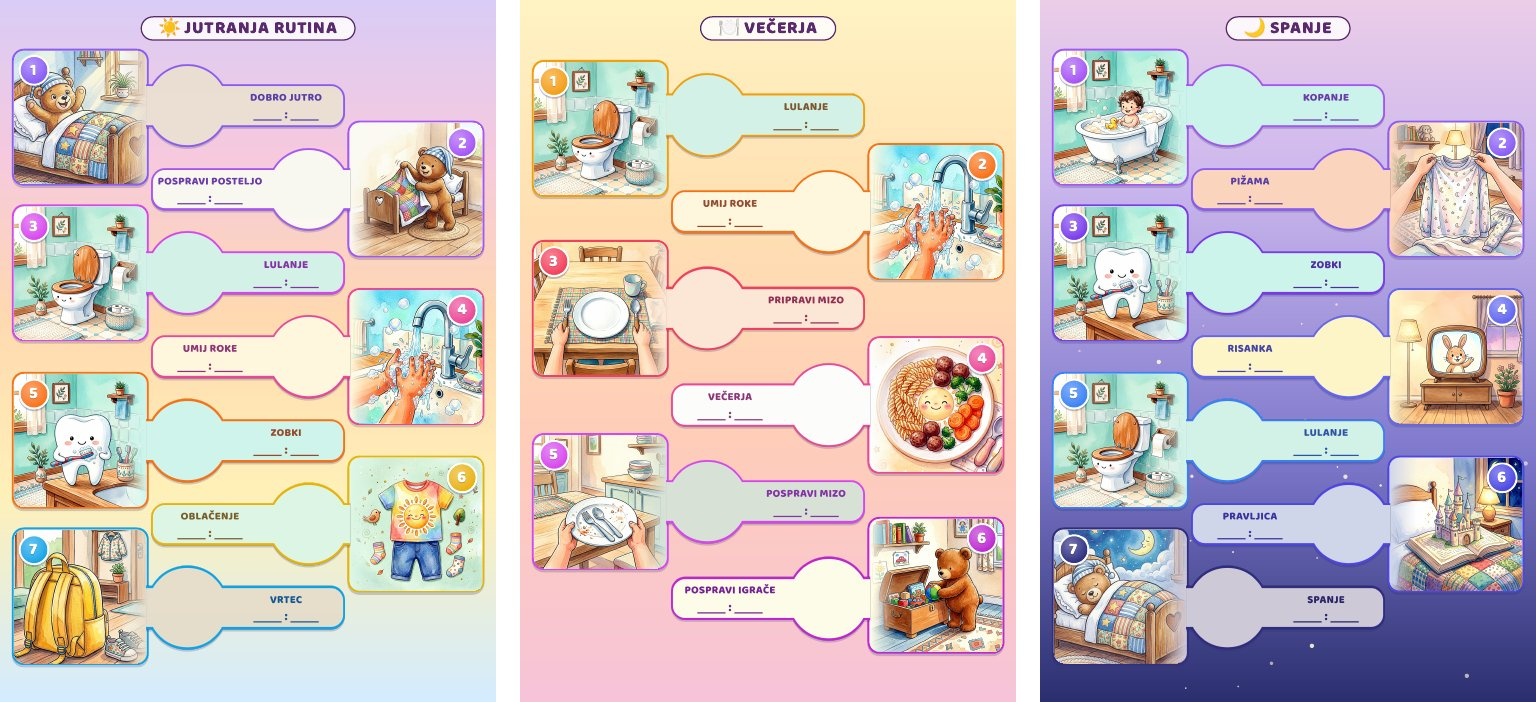
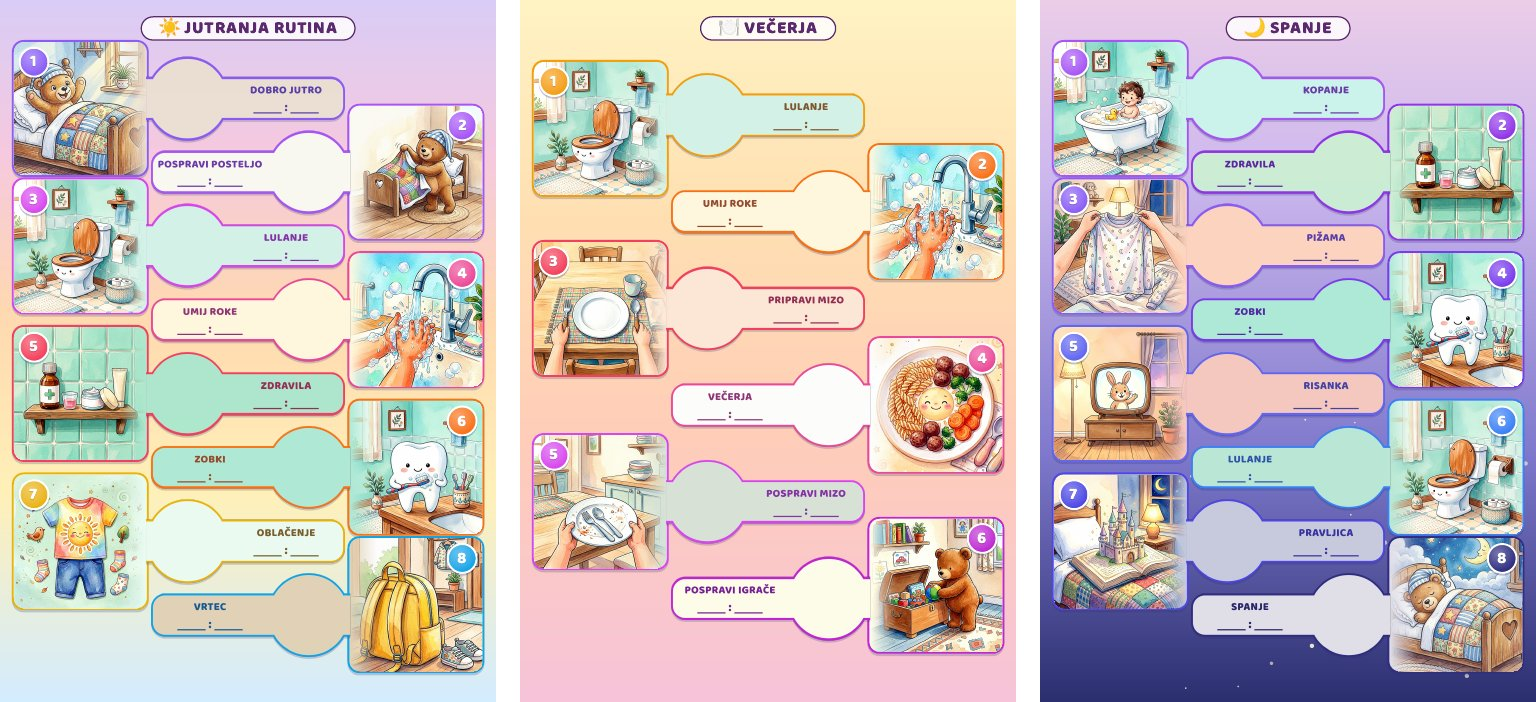
New image care: medicine bottle with a green cross, syrup, cream jar and tube
On a wooden shelf before the mint bathroom tiles, nothing else. Generated by
agy (Gemini) with toilet.jpg and wash-hands.jpg as style references; contrast
raised with tools/enhance.py. Google Lens Exact matches on raw and final file:
none. Keywords cover medicine and skin care in Slovenian and English. Both
ZDRAVILA steps of the routine use it; README preview refreshed.

diff --git a/output/sl-vsakdan.html b/output/sl-vsakdan.html
@@ -272,11 +272,11 @@
         </div>
         <div class="rt-check"></div>
       </div>
-      <div class="rt-pic pic-left" style="--step: #F43F5E; --bg: #FFFFFF; --ink: #942F55; grid-row: 10 / span 4;">
-        <div class="rt-missing">?</div>
+      <div class="rt-pic pic-left" style="--step: #F43F5E; --bg: #AEE8CE; --ink: #942F55; grid-row: 10 / span 4;">
+        <img src="../images/care.jpg" alt="Zdravila" />
         <div class="rt-num">5</div>
       </div>
-      <div class="rt-card card-left" style="--step: #F43F5E; --bg: #FFFFFF; --ink: #942F55; grid-row: 11 / span 2;">
+      <div class="rt-card card-left" style="--step: #F43F5E; --bg: #AEE8CE; --ink: #942F55; grid-row: 11 / span 2;">
         <div class="rt-text">
           <div class="rt-label">ZDRAVILA</div>
           <div class="rt-time"><span class="blank"></span>:<span class="blank"></span></div>
@@ -406,11 +406,11 @@
         </div>
         <div class="rt-check"></div>
       </div>
-      <div class="rt-pic pic-right" style="--step: #9333EA; --bg: #FFFFFF; --ink: #5E28A2; grid-row: 4 / span 4;">
-        <div class="rt-missing">?</div>
+      <div class="rt-pic pic-right" style="--step: #9333EA; --bg: #CDEED5; --ink: #5E28A2; grid-row: 4 / span 4;">
+        <img src="../images/care.jpg" alt="Zdravila" />
         <div class="rt-num">2</div>
       </div>
-      <div class="rt-card card-right" style="--step: #9333EA; --bg: #FFFFFF; --ink: #5E28A2; grid-row: 5 / span 2;">
+      <div class="rt-card card-right" style="--step: #9333EA; --bg: #CDEED5; --ink: #5E28A2; grid-row: 5 / span 2;">
         <div class="rt-text">
           <div class="rt-label">ZDRAVILA</div>
           <div class="rt-time"><span class="blank"></span>:<span class="blank"></span></div>

diff --git a/web/data.js b/web/data.js
@@ -54,6 +54,33 @@ window.SHEET_DATA = {
     ]
    }
   },
+  "care": {
+   "title": "Medicine bottle with a green cross, syrup cup, cream jar and tube on a bathroom shelf",
+   "keywords": {
+    "sl": [
+     "zdravil*",
+     "sirup*",
+     "vitamin*",
+     "kapljic*",
+     "krem*",
+     "mazil*",
+     "nega",
+     "negovaln*",
+     "namaz*"
+    ],
+    "en": [
+     "medicine*",
+     "medication",
+     "syrup",
+     "vitamin*",
+     "drops",
+     "cream*",
+     "lotion",
+     "ointment",
+     "skin care"
+    ]
+   }
+  },
   "cartoon": {
    "title": "Wooden TV with a waving bunny cartoon, lamp, flowering plant and window",
    "keywords": {
@@ -349,7 +376,7 @@ window.SHEET_DATA = {
       },
       {
        "label": "ZDRAVILA",
-       "image": null,
+       "image": "care",
        "color": "#F43F5E"
       },
       {
@@ -418,7 +445,7 @@ window.SHEET_DATA = {
       },
       {
        "label": "ZDRAVILA",
-       "image": null,
+       "image": "care",
        "color": "#9333EA"
       },
       {
@@ -460,6 +487,7 @@ window.SHEET_DATA = {
 window.SHEET_EDGES = {
   "bath": ["#CDF5EC", "#AFE9D6"],
   "brush-teeth": ["#CFF6ED", "#B0EAD7"],
+  "care": ["#AEE8CE", "#CDEED5"],
   "cartoon": ["#F6C9C0", "#FFF6C9"],
   "clear-table": ["#D8E3D7", "#FBDCB8"],
   "dinner": ["#FFE9BD", "#FDFEFD"],

diff --git a/images/README.md b/images/README.md
@@ -6,6 +6,7 @@ Generated by `tools/build.py` from `images/<id>.json`; do not edit by hand. To a
 | --- | --- | --- | --- | --- |
 | <img src="bath.jpg" width="120" alt="Toddler in a bubble bath in the same bathroom"> | `bath` | Toddler in a bubble bath in the same bathroom | sl: kopanj*, kopel*, kopaj*, kad, tus*<br>en: bath*, shower | sl-vsakdan: 🌙 SPANJE 1 |
 | <img src="brush-teeth.jpg" width="120" alt="Tooth character brushing at the bathroom sink"> | `brush-teeth` | Tooth character brushing at the bathroom sink | sl: zob*, scetk*, krtack*<br>en: teeth, tooth*, brush teeth, brush your teeth | sl-vsakdan: ☀ JUTRANJA RUTINA 6<br>sl-vsakdan: 🌙 SPANJE 4 |
+| <img src="care.jpg" width="120" alt="Medicine bottle with a green cross, syrup cup, cream jar and tube on a bathroom shelf"> | `care` | Medicine bottle with a green cross, syrup cup, cream jar and tube on a bathroom shelf | sl: zdravil*, sirup*, vitamin*, kapljic*, krem*, mazil*, nega, negovaln*, namaz*<br>en: medicine*, medication, syrup, vitamin*, drops, cream*, lotion, ointment, skin care | sl-vsakdan: ☀ JUTRANJA RUTINA 5<br>sl-vsakdan: 🌙 SPANJE 2 |
 | <img src="cartoon.jpg" width="120" alt="Wooden TV with a waving bunny cartoon, lamp, flowering plant and window"> | `cartoon` | Wooden TV with a waving bunny cartoon, lamp, flowering plant and window | sl: risank*, tv, televizij*, ekran*, film*<br>en: cartoon*, tv, television, screen time, show | sl-vsakdan: 🌙 SPANJE 5 |
 | <img src="clear-table.jpg" width="120" alt="Child&#x27;s hands carrying a used plate from the table"> | `clear-table` | Child's hands carrying a used plate from the table | sl: pospravi mizo, pospravljanje mize, odnesi krozni*<br>en: clear the table, clear table, clear up the table | sl-vsakdan: 🍽 VEČERJA 5 |
 | <img src="dinner.jpg" width="120" alt="Plate of pasta, meatballs and vegetables"> | `dinner` | Plate of pasta, meatballs and vegetables | sl: vecerj*, jej, jemo, jest, obed*, kosil*, hrana<br>en: dinner, eat*, meal, supper, lunch | sl-vsakdan: 🍽 VEČERJA 4 |
